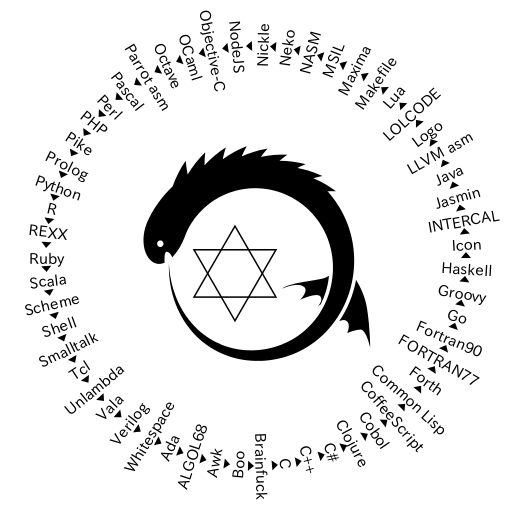
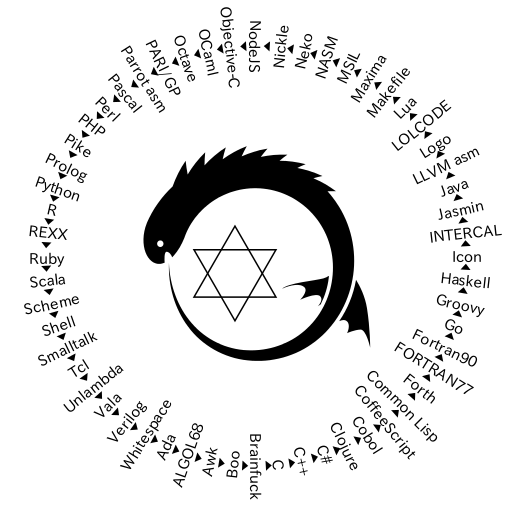
* the 56th language: PARI/GP

Changed region(s): [[0.0312, 0.0, 0.9688, 0.9688], [0.0625, 0.5312, 0.125, 0.5625], [0.0625, 0.4375, 0.0938, 0.4688]]

diff --git a/QR.rb b/QR.rb
@@ -21,34 +21,34 @@ oid~m                      a!(SJ[]v){SJ~c[]=new~SJ[8000],y="",z=y,s="#{z=t=(0..r
 ,[]]                     };a="";b=->n{a<<(n%7 8+55)%84+42};(%(@s=global[#{i=(s=%(PR~             "`x48AI^~1.2~P
 R~"V                    ISIBLE^~"#{Q["Z"+E[%   (all:`n`t@echo~'#{d[Q["l!el:99999;Z#{E[            %(.assembly~t
 {}.                    method~static~void~M  X  {.entrypo!t~ldstr"#{e[%(m:db`x60#{e[s="            $Z#{E[%(Zf#{
-E["                   require('util').Z#{E  ["#  import"+M["Z_sJ"+E["Zf"+E[%(say"#{e["#            $D(output);b
-eg!       ~H         (#{((p="eval";%($_="  #{s=%  (<?php~function~f($n){return~str_repea            t("Y",$n);}
-;$f                 ="f";echo#{V[Q[E["!t  ~mX{H#{  E["qr:-H('#{Q[e[%(for~l~!#{E[e[d[%(eva           l$s=%q(#$s)
-)]]]               }.split(                                     "Yn"):Z('cat("say~Y"'+l+'           Y"Yn")'))],
-?']}'        )."  ]};return~  0;}"]],  "{$f(",")}"]}  ?>);(s+  N*(-s.size%6)).unpack("B*")          [0].K(/.{6}
-/){n=$       &.to_i~2;((n+14)  /26*6  +n+47).chr}}";s  |.|$n  =ord$&;substr~unpack(B8,chr$          n-!t($n/32)
-*6-41),2|   eg;Z~pack"B*",$_).  sca  n(/[~,-:A-z]+|(.)  /){  p="s++#{$1?"chr~#{$1.ord}+e":          $&+?+};"+p}
-;p)).K(/.{1,255 }/){|s|"'#{s}',  "  }}'')end."]}"`nend)  +  N]]]]}"]})+N]};"+N]}`x60`nglob          al~_start`n
-_start:mov~edx, #{s.size}`nmov~e   cx,m`nmov~ebx,1`nmov~   eax,4`n!t~128`nmov~ebx,0`nmov~e          ax,1`n!t~12
-8)]}"call~void~ [mscorlib]Syste  m  .Console::Write(sJ)  r  et})]};quit();",B],?$].K     (          ?'){%('"'"'
-)}}')].K(/[:"]/  ,":^0"),/[~Y`  t;"  (){}`[`]]/]}"~PR~  "`x  4bT`x48`x58B               `          x  59E~B`x59
-E)).size+1}x~i8] c"#{s.K(/[^"  ]/){"  ^%`x58"%$&.ord}  }^00"  declare~                  i          3   2@puts(i
-8*)def!e~i32@mX{  %1=call~i3  2@puts(  i8*getelement  ptr([#{  i}x~i8]*@s,i32          ~          0     ,i32~0)
-)ret~i32~0})).byt es{|n|r,z                                     =z[n]||(b[r/           7          8      ];b[r]
-;q<6083&&z[n]=[q+  =1,[]];t[n])};b[r/78]  ;b[r]}"  ;!t~i=0,n=0,q=0;for(;++n< 126;)c[n ]          =       ""+(ch
-ar)n;for(;i<s.leng  th();){q=q*78+(s.char  At(i)  -13)%84;if(i++%2>0){y=q<n?c[q]:y;c [          n         ++]=z
-+y.charAt(0);System  .out.Z(z=c[q]);q=0;}}  }})  ]}"`n!vokevirtual~#$T/Zln(L#{S}SJ;)V          `          nretu
-rn`n.end~method)+N]}  ;H("DO,1<-#"||*s);s?w  h  ile~t:=ord(move(1))do{i+:=1;u:=-i;ev          e           ry~0t
-o~7do{u:=u*2+t%2;t/:=   2};H("PLEASE")^(i%4/   3);H("DO,1SUB#"||i||"<-#"||((c-u)%2           5             6));
-c:=u;};H("PLEASEREADOU   T,1^nPLEASEGIVEUP"); end)]).tr(B,?&)]}'.tr('&','YY');)]}           ;              })]}
-"~DUP~FOR~S"~&A,&"~C~NE    `x58T~S^"~&A)^",&"~C~0~DO~B~."~&char("~COUNT~.~."~),           &'"~CR~          LOOP
-~S^"~&^"^""~C~S"~end~#$D"    ~C~A~."~STOP"~CR~A~."~END"~CR~B`x59E~;~D~)]}"))]           ,'#{f(','          )}']
-}))]}"))["~~~~^"~^".""STOP      ~RUN."])](Zln(str"#{g*8}"s)))).tr~B,?`x7e]            }.Replace("`x7e","Y  "));
-}})]};}"]]],"$(f(","))"]};fo       r~i~!~range(len(s)):b~as~!t=s[i];a-=             b;Z(('+'*-a~if~0>a~els  e'-
-'*a)+'.');a=b;).tr~B,?`x21]};K(        /`x21/,"Y",s);Z~s})]}"))]}")               ;end~qr;)]};!t~i,j;Z("mo  dul
-e~QR;!itial~beg!~");for(i=0;i<s.l             ength;i++){Z(                    "$H(^"~~~");for(j=6;j>=0;j--)Z((
-s[i]>>j)%2>0?"Yt":"~");Z("YnYtYn~~^`"                                       );");}Z("$display(^"YnYn^");end~end
-module");return~0;}].reverse],/[`[`]$]/],                              "[f~",?]]}"~^x60.&]k),?']}';cr"]]}")]}")
-)]};})).gsub(/[!HJKXYZ^`~]/){[B*2,:write,B,:trin                g,:gsub,"ain()",B*4,:print,g,:in][$&.ord%47%12]
-})))*"")#_buffer_for_future_bug_fixes_#_buffer_for_future_bug_fixes_#_buffer_for_future_bug_fixes_#_buffer_for_
+E["                   require('util').Z#{E  ["#  import"+M["Z_sJ"+E["Zf"+E["Z#{E[%(say"            #{e["#$D(out
+put       );         beg!~H(#{((p="eval";  %($_=  "#{s=%(<?php~function~f($n){return~str            _repeat("Y"
+,$n                 );};$f="f";echo#{V[Q  [E["!t~  mX{H#{E["qr:-H('#{Q[e[%(for~l~!#{E[e[d           [%(eval$s=%
+q(#$               s))]]]}.                                     split("Yn"):Z('cat("say~Y           "'+l+'Y"Yn"
+)'))]        ,?'  ]}')."]};r  eturn~0  ;}"]],"{$f(",  ")}"]}?  >);(s+N*(-s.size%6)).unpack          ("B*")[0].K
+(/.{6}       /){n=$&.to_i~2;(  (n+14  )/26*6+n+47).ch  r}}";  s|.|$n=ord$&;substr~unpack(B          8,chr$n-!t(
+$n/32)*6-   41),2|eg;Z~pack"B*  ",$  _).scan(/[~,-:A-z  ]+|  (.)/){p="s++#{$1?"chr~#{$1.or          d}+e":$&+?+
+};"+p};p)).K(/. {1,255}/){|s|"'  #  {s}',"}}'')end."]}"  `  nend)]};quit"+N]]]]}"]})+N]};"          +N]}`x60`ng
+lobal~_start`n_ start:mov~edx,#{   s.size}`nmov~ecx,m`nm   ov~ebx,1`nmov~eax,4`n!t~128`nmo          v~ebx,0`nmo
+v~eax,1`n!t~128 )]}"call~void~[  m  scorlib]System.Cons  o  le::Write(sJ)ret})]};qui     t          ();",B],?$]
+.K(?'){%('"'"')  }}')].K(/[:"]  /,"  :^0"),/[~Y`t;"(){  }`[  `]]/]}"~PR~"               `          x  4bT`x48`x
+58B`x59E~B`x59E) ).size+1}x~i  8]c"#  {s.K(/[^"]/){"^  %`x58  "%$&.ord                  }          }   ^00"decl
+are~i32@puts(i8*  )def!e~i32  @mX{%1=  call~i32@puts  (i8*get  elementptr([#{          i          }     x~i8]*@
+s,i32~0,i32~0))re t~i32~0})                                     ).bytes{|n|r           ,          z      =z[n]|
+|(b[r/78];b[r];q<  6083&&z[n]=[q+=1,[]];  t[n])};  b[r/78];b[r]}";!t~i=0,n=0 ,q=0;for (          ;       ++n<12
+6;)c[n]=""+(char)n  ;for(;i<s.length();){  q=q*7  8+(s.charAt(i)-13)%84;if(i++%2>0){ y          =         q<n?c
+[q]:y;c[n++]=z+y.ch  arAt(0);System.out.Z(  z=c  [q]);q=0;}}}})]}"`n!vokevirtual~#$T/          Z          ln(L#
+{S}SJ;)V`nreturn`n.e  nd~method)+N]};H("DO,  1  <-#"||*s);s?while~t:=ord(move(1))do{          i           +:=1;
+u:=-i;every~0to~7do{u   :=u*2+t%2;t/:=2};H("   PLEASE")^(i%4/3);H("DO,1SUB#"||i||"           <             -#"|
+|((c-u)%256));c:=u;};H   ("PLEASEREADOUT,1^nP LEASEGIVEUP");end)]).tr(B,?&)]}'.tr           (              '&',
+'YY');)]};})]}"~DUP~FOR    ~S"~&A,&"~C~NE`x58T~S^"~&A)^",&"~C~0~DO~B~."~&char("           ~COUNT~          .~."
+~),&'"~CR~LOOP~S^"~&^"^""    ~C~S"~end~#$D"~C~A~."~STOP"~CR~A~."~END"~CR~B`x5           9E~;~D~)]          }"))
+],'#{f(',')}']}))]}"))["~~      ~~^"~^".""STOP~RUN."])](Zln(str"#{g*8}"s))            )).tr~B,?`x7e]}.Rep  lace
+("`x7e","Y"));}})]};}"]]],"$       (f(","))"]};for~i~!~range(len(s)):b~             as~!t=s[i];a-=b;Z(('+'  *-a
+~if~0>a~else'-'*a)+'.');a=b;).t        r~B,?`x21]};K(/`x21/,"Y",s);               Z~s})]}"))]}");end~qr;)]  };!
+t~i,j;Z("module~QR;!itial~beg!~")             ;for(i=0;i<s.                    length;i++){Z("$H(^"~~~");for(j=
+6;j>=0;j--)Z((s[i]>>j)%2>0?"Yt":"~");                                       Z("YnYtYn~~^`");");}Z("$display(^"Y
+nYn^");end~endmodule");return~0;}].revers                              e],/[`[`]$]/],"[f~",?]]}"~^x60.&]k),?']}
+';cr"]]}")]}"))]};})).gsub(/[!HJKXYZ^`~]/){[B*2,                :write,B,:tring,:gsub,"ain()",B*4,:print,g,:in]
+[$&.ord%47%12]})))*"")#_buffer_for_future_bug_fixes_#_buffer_for_future_bug_fixes_#_buffer_for_future_bug_fixes
 ###################  Quine Relay -- Copyright (c) 2013 Yusuke Endoh (@mametter), @hirekoke  ##################)

diff --git a/src/code-gen.rb b/src/code-gen.rb
@@ -137,6 +137,14 @@ class ParrotAsm < CodeGen
   Code = %q(%(say"#{e[PREV]}"\nend))
 end
 
+class PARIGP < CodeGen
+  Name = "PARI/GP"
+  File = "QR.gp"
+  Cmd = "gp -f -q QR.gp > OUTFILE"
+  Apt = "pari-gp"
+  Code = %q("print#{E[PREV]};quit")
+end
+
 class Octave < CodeGen
   File = "QR.octave"
   Cmd = "octave -qf QR.octave > OUTFILE"

diff --git a/README.md b/README.md
@@ -5,7 +5,7 @@
 This is a Ruby program that generates
 Scala program that generates
 Scheme program that generates
-...(through 55 languages in total)...
+...(through 56 languages in total)...
 REXX program that generates
 the original Ruby code again.
 
@@ -26,9 +26,9 @@ First, you have to type the following apt-get command to install all of them.
       coffeescript f2c fp-compiler g++ gauche gawk gcc gforth gfortran ghc \
       gnat gnu-smalltalk gobjc golang groovy icont iconx intercal iverilog \
       jasmin-sable llvm lua5.2 make maxima mono-devel mono-mcs nasm neko \
-      nickle nodejs ocaml octave open-cobol openjdk-6-jdk parrot perl \
-      php5-cli pike7.8 python r-base regina-rexx ruby2.0 scala swi-prolog \
-      tcl ucblogo valac
+      nickle nodejs ocaml octave open-cobol openjdk-6-jdk pari-gp parrot \
+      perl php5-cli pike7.8 python r-base regina-rexx ruby2.0 scala \
+      swi-prolog tcl ucblogo valac
 
 Then, you have to build the bundled interpreters.
 
@@ -90,7 +90,8 @@ If you could do it, please let me know.  Good luck.
     $ nodejs QR.js > QR.m
     $ gcc -o QR QR.m && ./QR > QR.ml
     $ ocaml QR.ml > QR.octave
-    $ octave -qf QR.octave > QR.pasm
+    $ octave -qf QR.octave > QR.gp
+    $ gp -f -q QR.gp > QR.pasm
     $ parrot QR.pasm > QR.pas
     $ fpc QR.pas && ./QR > QR.pl
     $ perl QR.pl > QR.php
@@ -167,15 +168,16 @@ For other languages, I used the following deb packages:
 44 |Objective-C  |gobjc          |4:4.8.2-1ubuntu6
 45 |OCaml        |ocaml          |4.01.0-3ubuntu3
 46 |Octave       |octave         |3.8.1-1ubuntu1
-47 |Parrot asm   |parrot         |5.9.0-1build1
-48 |Pascal       |fp-compiler    |2.6.2-8
-49 |Perl         |perl           |5.18.2-2ubuntu1
-50 |PHP          |php5-cli       |5.5.9+dfsg-1ubuntu4.4
-51 |Pike         |pike7.8        |7.8.700-7
-52 |Prolog       |swi-prolog     |6.6.4-2ubuntu1
-53 |Python       |python         |2.7.5-5ubuntu3
-54 |R            |r-base         |3.0.2-1ubuntu1
-55 |REXX         |regina-rexx    |3.6-2
+47 |PARI/GP      |pari-gp        |2.5.5-1
+48 |Parrot asm   |parrot         |5.9.0-1build1
+49 |Pascal       |fp-compiler    |2.6.2-8
+50 |Perl         |perl           |5.18.2-2ubuntu1
+51 |PHP          |php5-cli       |5.5.9+dfsg-1ubuntu4.4
+52 |Pike         |pike7.8        |7.8.700-7
+53 |Prolog       |swi-prolog     |6.6.4-2ubuntu1
+54 |Python       |python         |2.7.5-5ubuntu3
+55 |R            |r-base         |3.0.2-1ubuntu1
+56 |REXX         |regina-rexx    |3.6-2
 
 Note: `CC=tcc ick -bfO` may be used to compile INTERCAL sources
 with less memory.
